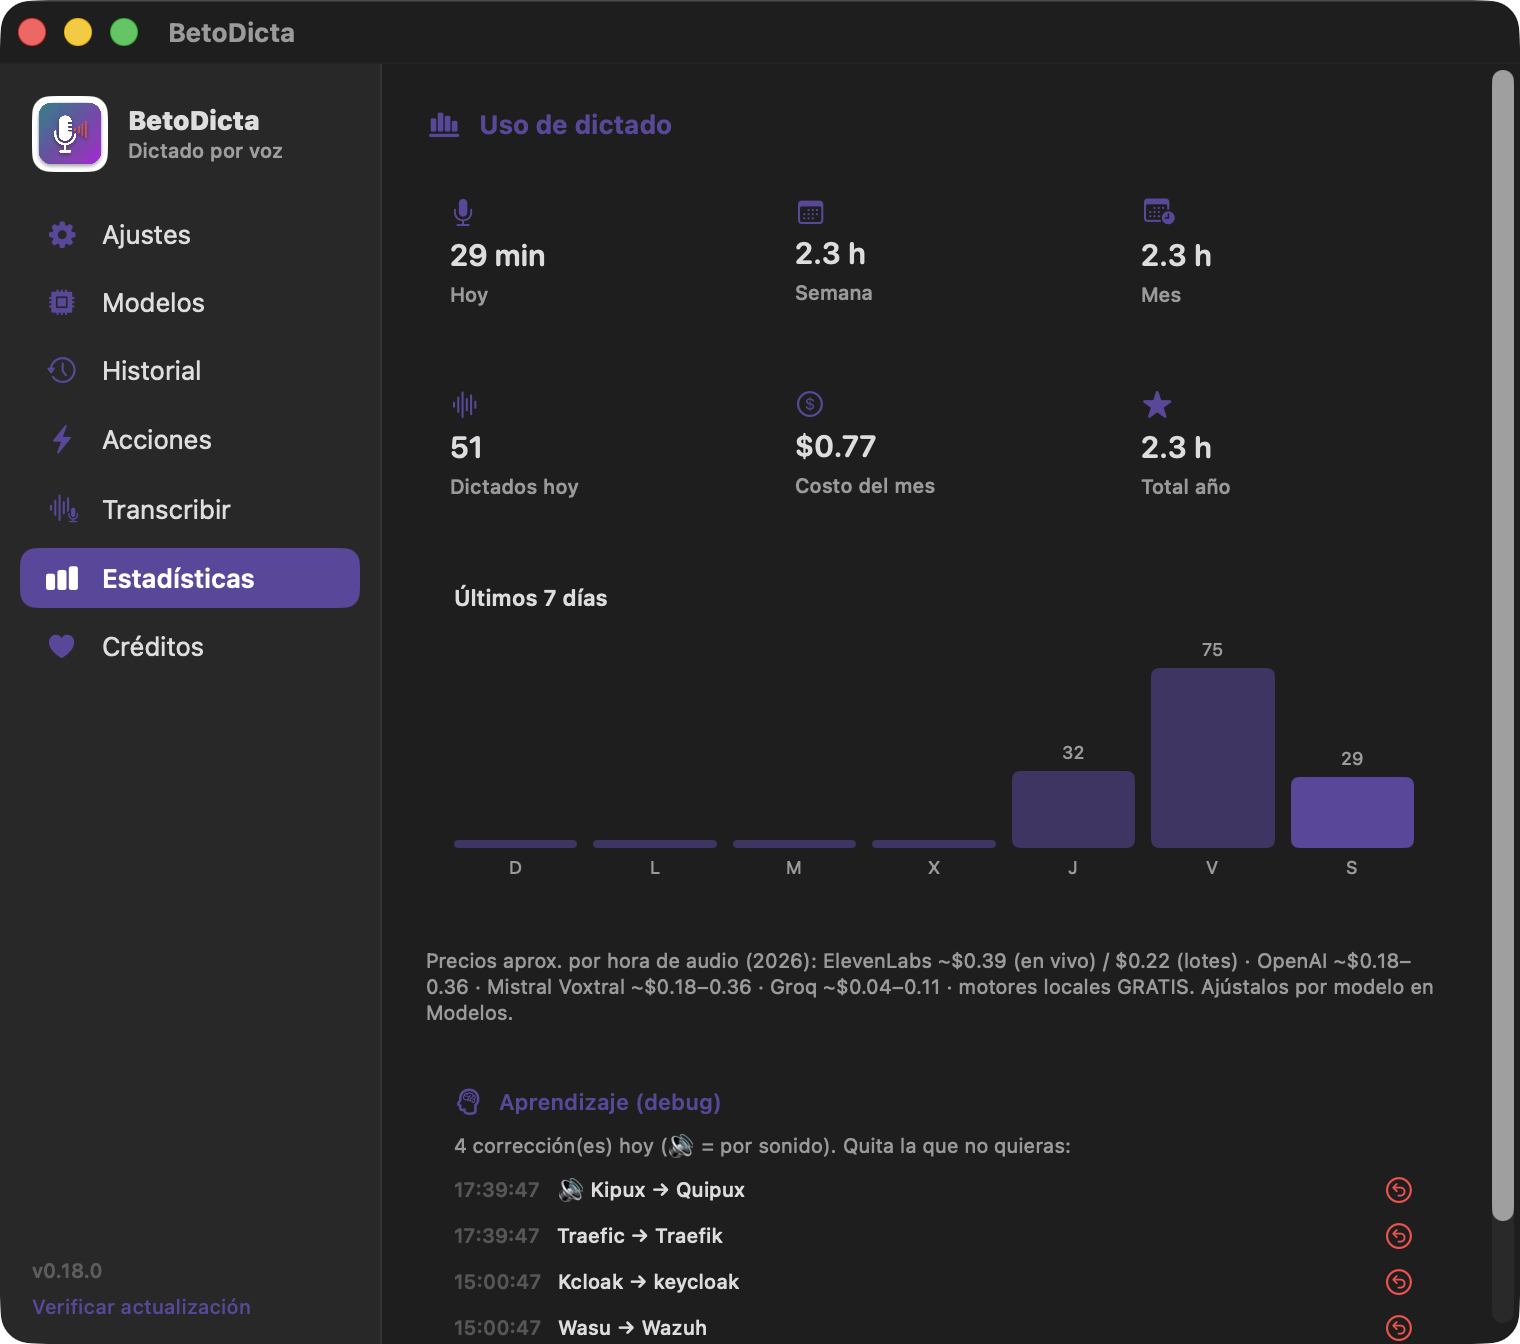
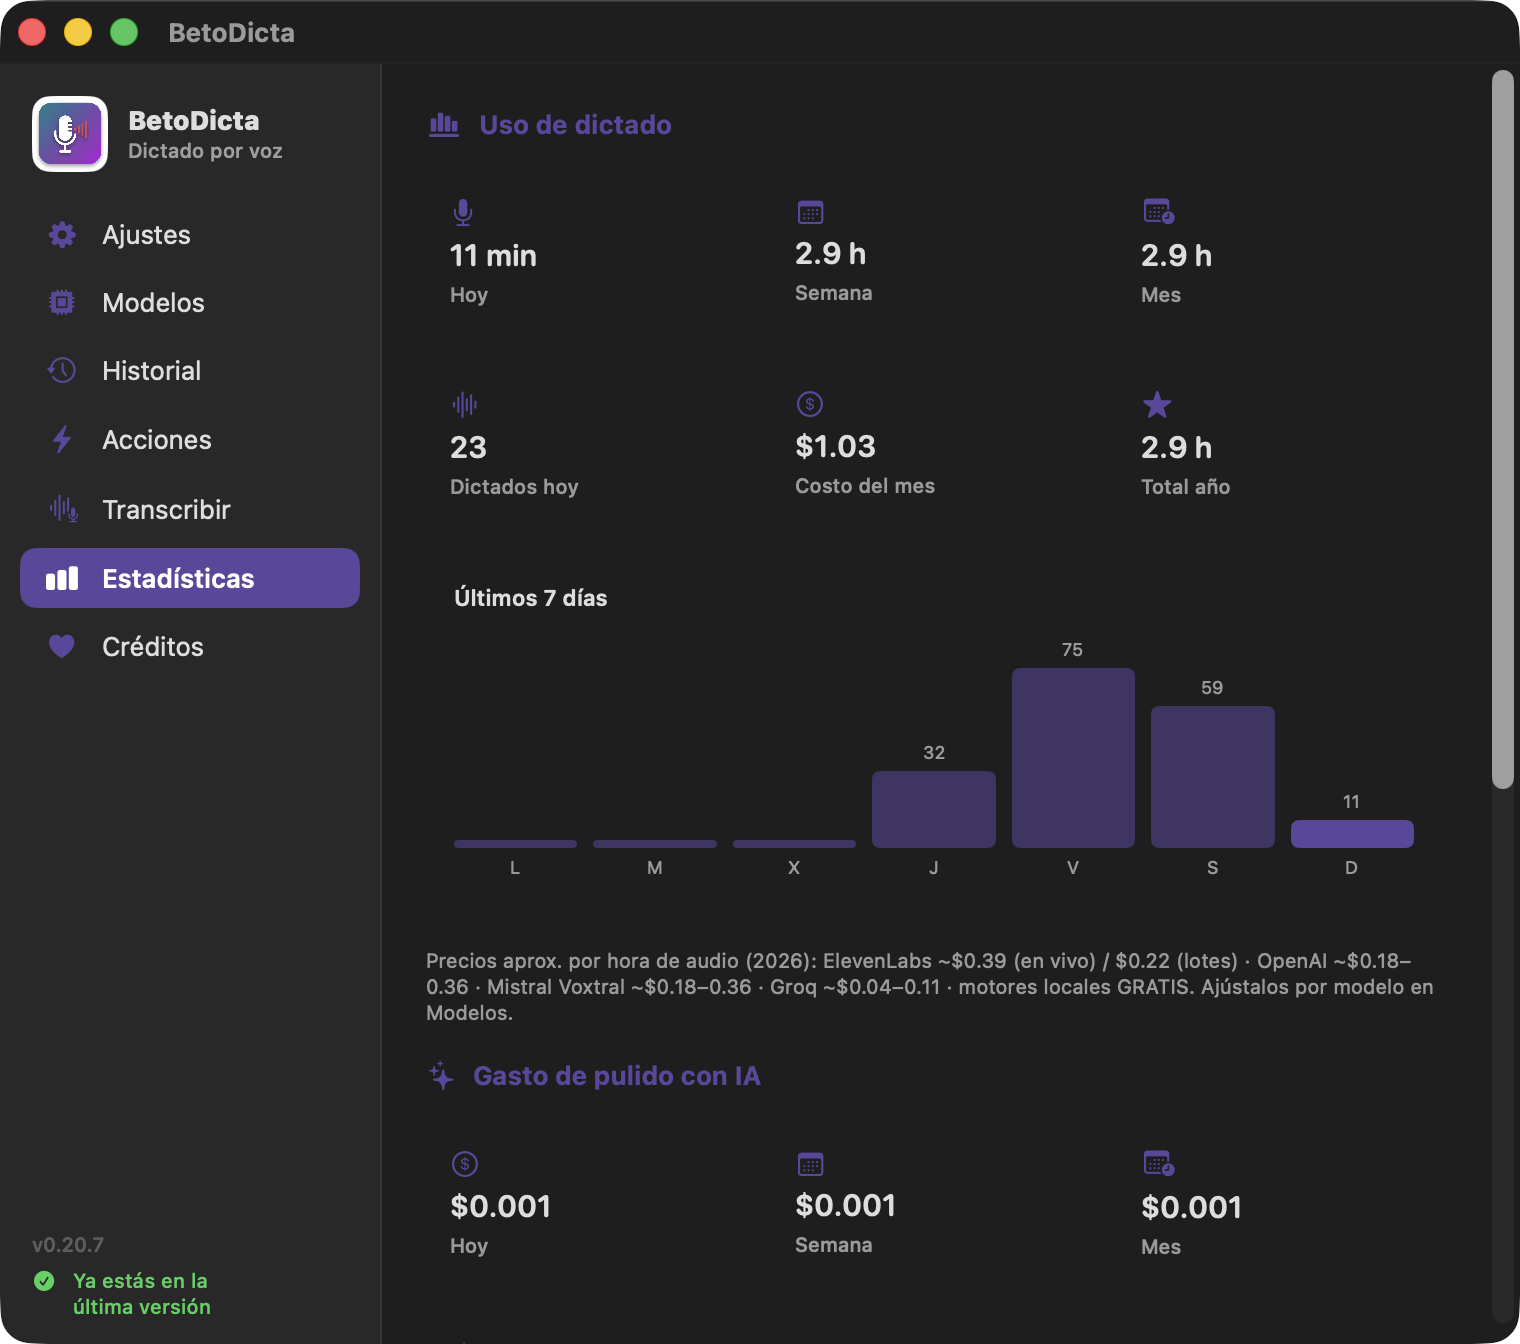
Manual + capturas nuevas + fix formato KPI gasto mensual
- KPI "Mes" del gasto de pulido usaba %.2f (mostraba $0.00 cuando el gasto era
  ~$0.001) mientras Hoy/Semana usaban %.3f → inconsistente (Mes < Semana).
  Unificado a %.3f: ahora Hoy/Semana/Mes coinciden.
- docs/img/modelos.png: recapturado — cascada con los 14 motores (Fireworks,
  Hugging Face, Deepgram, AssemblyAI, Gladia, Speechmatics…).
- docs/img/estadisticas.png: recapturado — sección "Gasto de pulido con IA"
  (KPIs hoy/sem/mes + tokens + gráfica).
- docs/img/wizard-nube.png (nuevo): paso de nube con el callout de opciones
  GRATIS (Groq Whisper, Hugging Face, OpenRouter :free).
- MANUAL.md: motores STT nuevos + detección inteligente local, salvaguarda
  anti-inyección, KPIs de gasto de pulido, 7 chat providers gratis, plantilla
  Cloudflare, opciones gratis en el wizard.

diff --git a/Sources/BetoDicta/SettingsWindow.swift b/Sources/BetoDicta/SettingsWindow.swift
@@ -956,7 +956,7 @@ struct StatsView: View {
                 HStack(spacing: 10) {
                     kpi("Hoy", String(format: "$%.3f", tp.hoyCosto), "dollarsign.circle")
                     kpi("Semana", String(format: "$%.3f", tp.semanaCosto), "calendar")
-                    kpi("Mes", String(format: "$%.2f", tp.mesCosto), "calendar.badge.clock")
+                    kpi("Mes", String(format: "$%.3f", tp.mesCosto), "calendar.badge.clock")
                 }
                 HStack(spacing: 10) {
                     kpi("Pulidos hoy", "\(tp.pulidosHoy)", "sparkles")

diff --git a/docs/MANUAL.md b/docs/MANUAL.md
@@ -96,7 +96,9 @@ Son 8 pasos:
    ![Permisos con check en vivo](img/wizard-permisos.png)
 
    > La accesibilidad **pide reiniciar** la app para tomar efecto. No te preocupes: el asistente vuelve **exactamente a este paso** y verás los dos permisos en verde ("check activado, check activado"). El botón **"Reiniciar BetoDicta ahora"** lo hace por ti. Solo cuando pulses **Finalizar** al final, el asistente se da por terminado — un reinicio a mitad NO te lo salta.
-2. **IA en la nube (opcional)** — conecta ElevenLabs, Groq (y OpenAI/Mistral) pegando su clave, o déjalo en blanco para quedarte 100% gratis y local. Por seguridad, si ya tienes una clave guardada **no se muestra**: solo pega una nueva si la quieres cambiar.
+2. **IA en la nube (opcional)** — conecta un servicio pegando su clave, o déjalo en blanco para quedarte 100% gratis y local. Arriba, un recuadro verde resalta las opciones **GRATIS** para máquinas sin fuerza o sin presupuesto: **Groq Whisper** (2000 transcripciones/día) y **Hugging Face** para voz, y modelos **`:free`** de OpenRouter para pulido — **sin tarjeta**. Por seguridad, si ya tienes una clave guardada **no se muestra**: solo pega una nueva si la quieres cambiar.
+
+   ![IA en la nube — opciones gratis](img/wizard-nube.png)
 3. **IA local** — descarga los motores que corren gratis y **sin internet** (Voxtral Realtime, Nemotron, Canary, Whisper, Voxtral Mini). La descarga sigue en **segundo plano** aunque avances o cierres; pulsa **"Usar"** para dejarlo en tu cascada.
 
    ![Descarga de IA local](img/wizard-local.png)
@@ -215,6 +217,12 @@ Todo el control de motores vive aquí:
 - El ojito 👁 muestra/oculta la key. Las keys viven **solo en tu Mac** (`~/.betodicta/.env`).
 - Elige el modelo de cada proveedor en su selector (por ejemplo, ElevenLabs: `scribe_v2_realtime` para texto en vivo, o `scribe_v2` / `scribe_v1` por lotes).
 
+**Muchos motores de transcripción — varios GRATIS** (para máquinas sin fuerza o sin presupuesto):
+- **Nube compatible-OpenAI**: ElevenLabs, **Groq Whisper (gratis, 2000/día)** ⭐, OpenAI, Mistral (Voxtral), **Fireworks (Whisper)**.
+- **Nube con API propia** (cada uno con su adaptador): **Hugging Face (Whisper, capa gratuita)** ⭐, **Deepgram (Nova)**, **AssemblyAI**, **Gladia (10 h/mes gratis)**, **Speechmatics (480 min/mes gratis)**, **Cloudflare Workers AI (Whisper, 10 000 llamadas/día gratis)**. Cloudflare pide tu **Account ID** además de la key (campo aparte en su tarjeta).
+- **Locales con detección inteligente**: **Ollama** y **LM Studio** aparecen como motor de transcripción **solo si tienen un modelo whisper** cargado. Si no lo tienen, la fila se oculta y el motor queda desactivado — nunca te ofrece algo que no puede escuchar. Para habilitarlo: `ollama pull whisper` (o carga un whisper en LM Studio) y reabre.
+- Todos entran en la **cascada de failover** (arrástralos al orden que quieras) y su **precio por hora** ya viene puesto (los gratis en $0), ajustable con **"Poner valor"**.
+
 **El precio es POR MODELO** — cada modelo cuesta distinto, no el proveedor entero:
 - Debajo del selector de modelo hay un campo **"Costo $/hora de \<modelo\>"**. Muestra el precio de referencia 2026 del modelo que tengas elegido, y **cambia solo** cuando cambias de modelo en el selector.
 - Ejemplos reales: ElevenLabs `scribe_v2_realtime` = **$0.39/h** (en vivo) pero `scribe_v2` por lotes = **$0.22/h**; OpenAI `gpt-4o-transcribe` = **$0.36/h** pero `gpt-4o-mini-transcribe` = **$0.18/h**; Groq `whisper-large-v3-turbo` = **$0.04/h**. Los modelos locales = **$0** (gratis).
@@ -251,11 +259,11 @@ Tres formas, de la más rápida a la más completa:
 
 **Pulido con IA**
 - Pasa el texto por una IA que corrige puntuación y quita muletillas ("eh", "este…").
-- **Elige la IA**: no tiene que ser Groq. Cualquiera conectada — **Groq, OpenAI, Mistral, OpenRouter, DeepSeek, xAI (Grok), Anthropic (Claude), Gemini (Google)** (nube) o **LM Studio / Ollama** (local, se detectan solos si están corriendo, incluso recién abiertos). El selector muestra **"proveedor · modelo activo"** y solo lista las conectadas; la misma IA pule y traduce.
+- **Elige la IA**: no tiene que ser Groq. Cualquiera conectada — **Groq, OpenAI, Mistral, OpenRouter, DeepSeek, xAI (Grok), Anthropic (Claude), Gemini (Google)**, y varias **GRATIS**: **Cerebras, GitHub Models, NVIDIA NIM, Together AI, Novita AI, Z.ai (GLM), SiliconFlow** (nube) o **LM Studio / Ollama** (local, se detectan solos si están corriendo, incluso recién abiertos). El selector muestra **"proveedor · modelo activo"** y solo lista las conectadas; la misma IA pule y traduce.
 - **Elige el modelo de CUALQUIER proveedor** (no solo gateways): al elegir una IA aparece una fila **"Modelo"** con un botón **"Descubrir"** que trae su lista completa; eliges cuál usar al vuelo y se guarda por proveedor. Si el proveedor publica precios (ej. **OpenRouter**), cada modelo muestra su costo: **`$entrada/$salida por millón de tokens`** o **`gratis`** — así ves cuánto te costará antes de usarlo.
 - **Aviso de privacidad**: al pulir con una IA de **nube** o un **gateway de terceros**, la app te recuerda que **tu texto sale de tu Mac** — no dictes datos sensibles (claves, tarjetas). Para que **nada** salga, usa una IA **local**. El aviso se puede ocultar en *Ajustes → Avanzado*. Si un gateway usa **http sin cifrar**, la API key **no se envía** (protección).
 - **Conectar más IAs de chat** (despliega la sección): pega la API key de la que quieras (OpenRouter/DeepSeek/xAI…). Para los locales, pulsa **"Buscar"** (o préndelos y reabre) — la app encuentra el modelo cargado.
-- **IA personalizada (gateway propio)**: para servidores/gateways que no están en la lista. Pones tu **URL base**, **API key**, el **esquema de autenticación** (Bearer, X-API-Key o un encabezado propio), **encabezados extra**, y el **modelo** (a mano o con "Descubrir modelos"). Botón **"Probar conexión"** y marcas si sirve **para pulir** (reconocer voz llega pronto). Cada gateway aparece luego en el selector.
+- **IA personalizada (gateway propio)**: para servidores/gateways que no están en la lista. Pones tu **URL base**, **API key**, el **esquema de autenticación** (Bearer, X-API-Key o un encabezado propio), **encabezados extra**, y el **modelo** (a mano o con "Descubrir modelos"). Botón **"Probar conexión"** y marcas si sirve **para pulir** (reconocer voz llega pronto). Cada gateway aparece luego en el selector. El botón **"+"** trae **plantillas preconfiguradas** (ej. **Cloudflare Workers AI**): crea el gateway casi listo — solo reemplazas tu **Account ID** en la URL y pones el token.
   - **"Descubrir modelos"** trae **todos** los modelos del gateway de una vez (si tu URL base no lleva `/v1`, lo prueba solo y te avisa que la API está bajo `/v1` — súbelo a la URL para que el pulido funcione). Ya no eliges uno solo y listo: **cambia el modelo activo cuando quieras** desde *Ajustes → Pulido*, con el selector **"Modelo del gateway"** que aparece al elegir ese gateway — sin volver a abrir el editor.
 - El **estilo del pulido** es una instrucción tuya opcional: "trato formal de usted", "estilo técnico", etc.
 
@@ -269,6 +277,7 @@ Tres formas, de la más rápida a la más completa:
 - **Modo desarrollo**: anota detalles técnicos extra en el registro (para diagnosticar) y **desbloquea la bitácora de aprendizajes** en Estadísticas.
 - **Buscar actualización al abrir** (encendido por defecto): al arrancar revisa en silencio si hay versión nueva y te lo muestra abajo-izquierda. Nunca instala nada sin permiso.
 - **Autoactualizar** (apagado por defecto): si encuentra actualización al abrir, la baja e instala sola (la app se reinicia). Ver §20.
+- **Salvaguarda anti-inyección** (apagado por defecto): protección extra por si usas **gateways de terceros**. Si el texto que devuelve la IA de pulido **se dispara de tamaño** o **mete comandos de shell** que tú no dictaste (por ejemplo un gateway malicioso), la app **pega tu dictado ORIGINAL** en vez del pulido. **Nunca bloquea ni borra**: en el peor caso pierdes el pulido, no tus palabras. Útil sobre todo si dictas en terminales. Las IAs de pulido conocidas (Groq, OpenAI, Anthropic…) no necesitan esto.
 - **Espera del pulido con IA**: cuánto esperar la respuesta antes de rendirse (10–60 s). La app ya reintenta sola ante cortes de red, y espera más para textos largos. Súbelo si tu conexión es lenta.
 
 ## 12. Pestaña Acciones
@@ -398,6 +407,7 @@ Todos tus dictados, buscables:
 - Minutos dictados hoy / semana / mes / año, número de dictados y **costo estimado del mes**.
 - **El costo se calcula por MODELO**, no por proveedor: cada dictado suma según el precio del modelo que realmente se usó (y si el failover cambió de modelo a mitad, cuenta el que entregó). Los motores locales cuestan $0.
 - Gráfica de barras de los últimos 7 días.
+- **Gasto de pulido con IA**: si usas una IA de pulido de pago, aparece una sección aparte con lo gastado en **pulido** — **hoy / semana / mes**, número de pulidos, **tokens** del día y una gráfica de gasto de los últimos 7 días. Se calcula con el precio (entrada/salida por millón de tokens) del modelo que pule; con modelos locales o `:free` el gasto es $0. Solo se muestra si has pulido con IA este mes.
 - El menú de la barra muestra un resumen por proveedor.
 - Con **Modo desarrollo** activo aparece la bitácora **Aprendizaje (debug)** (ver [sección 14](#14-que-la-app-aprenda-de-ti-aprendizaje)): las correcciones aprendidas, con 🔊 para las de sonido y ↺ para revertir.
 